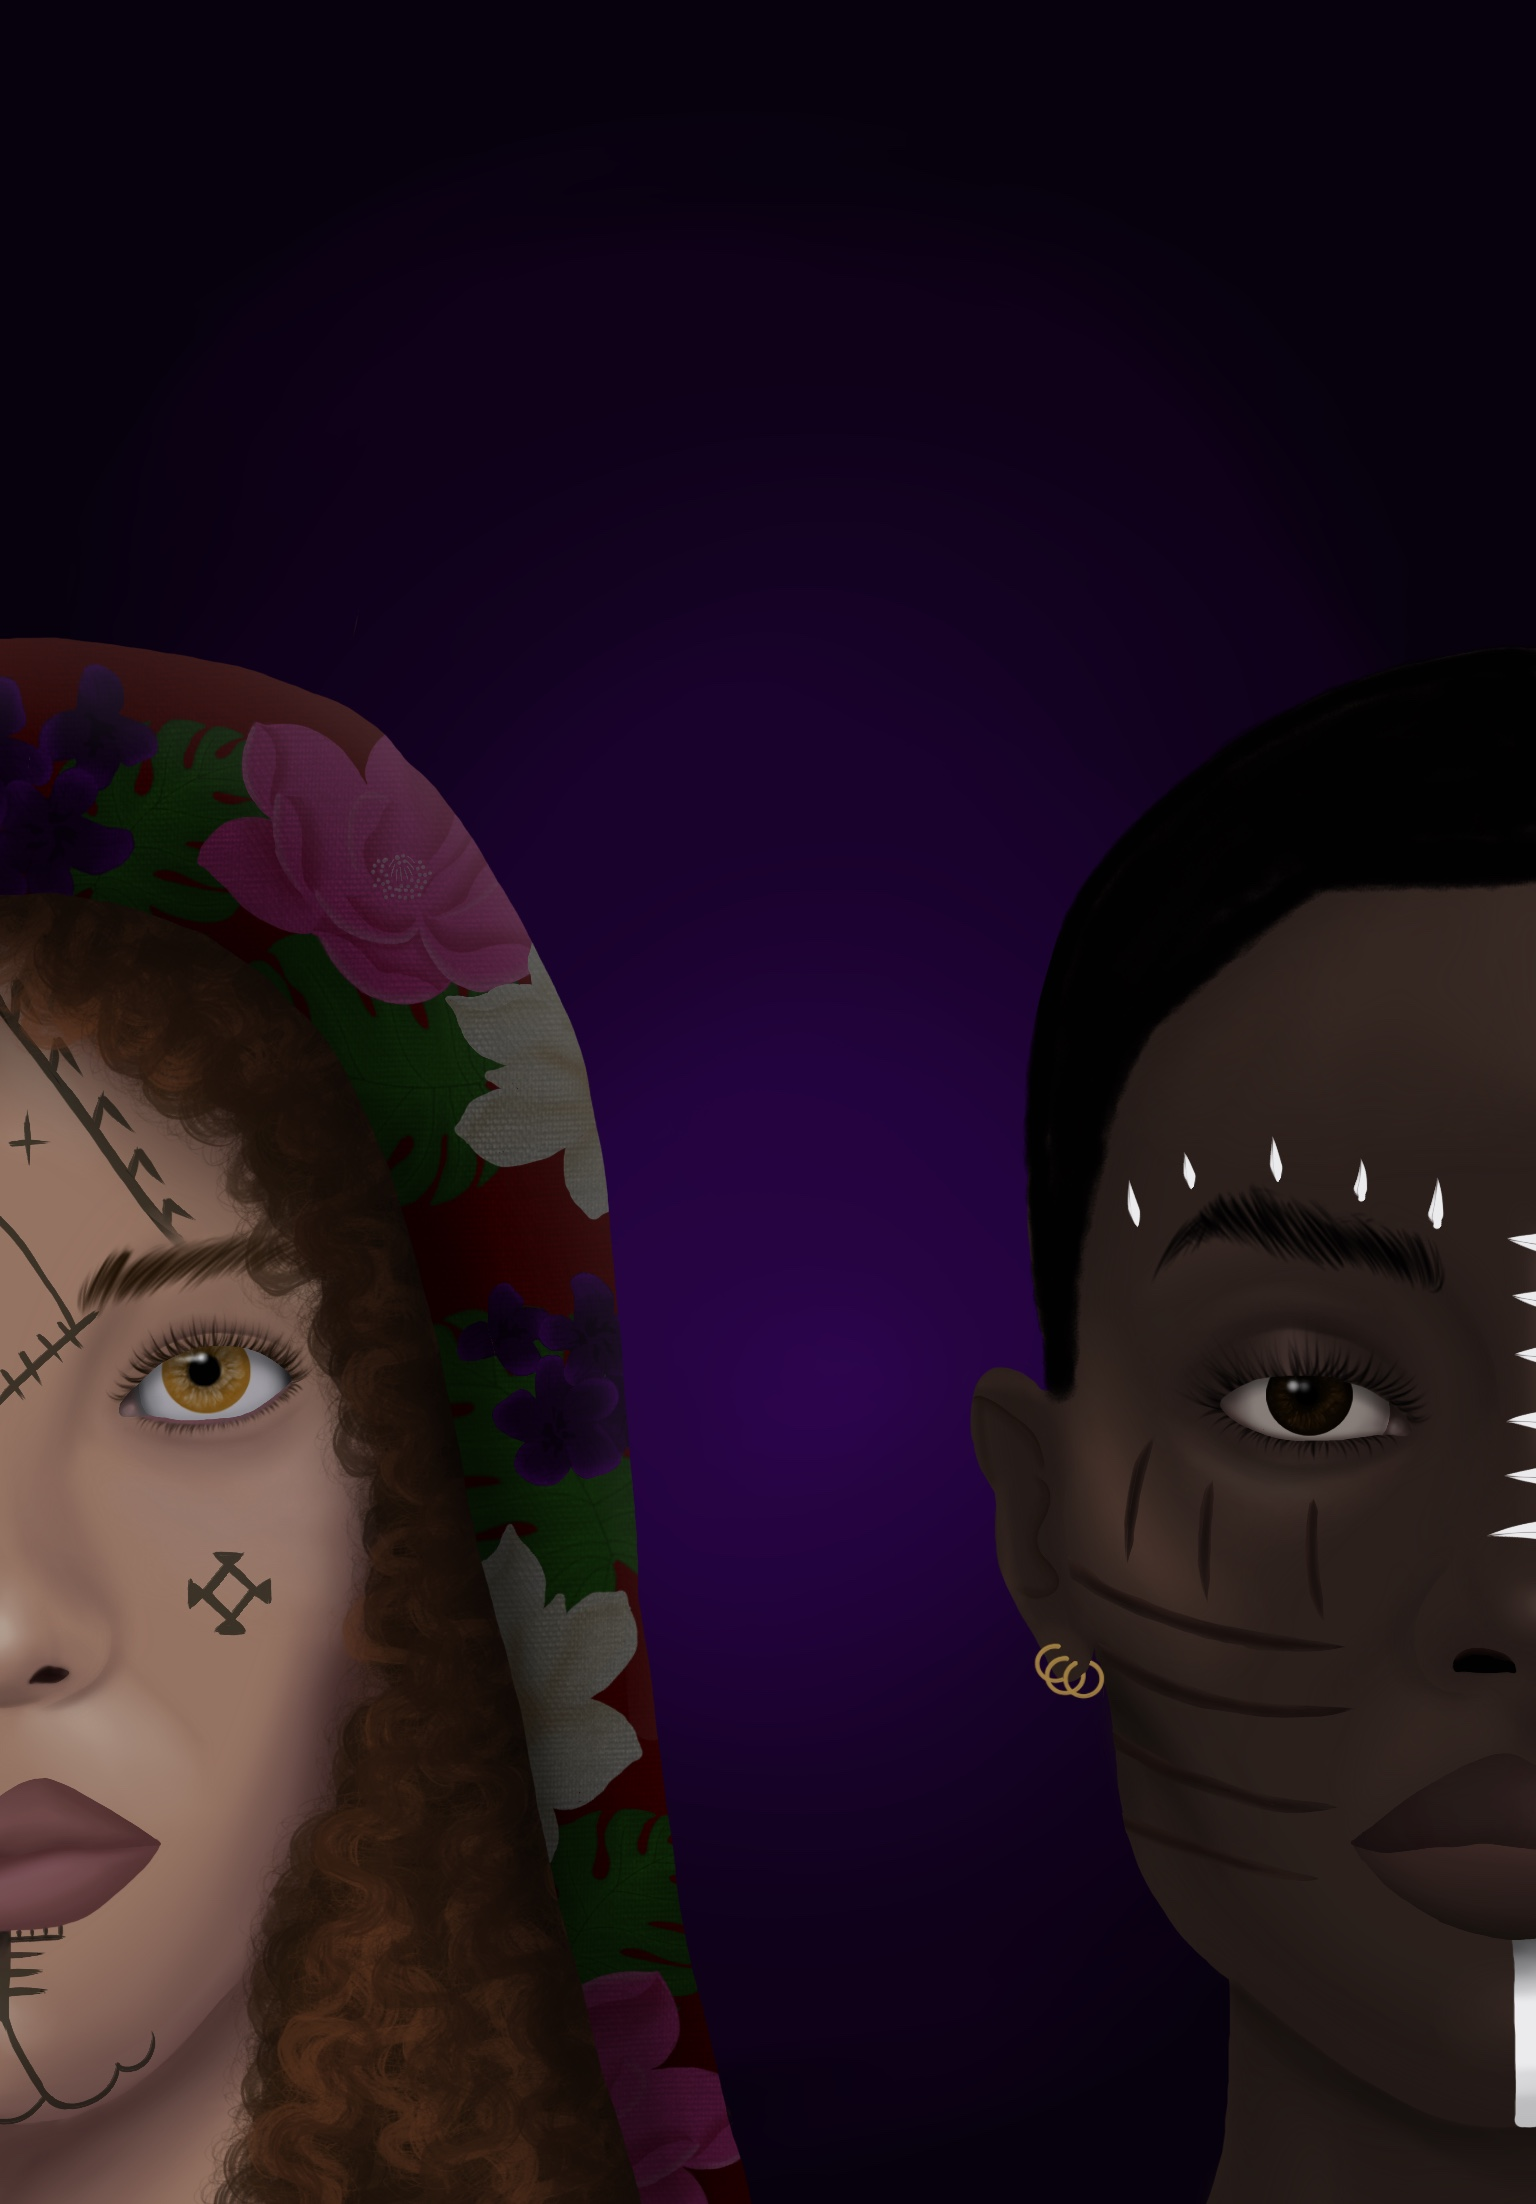
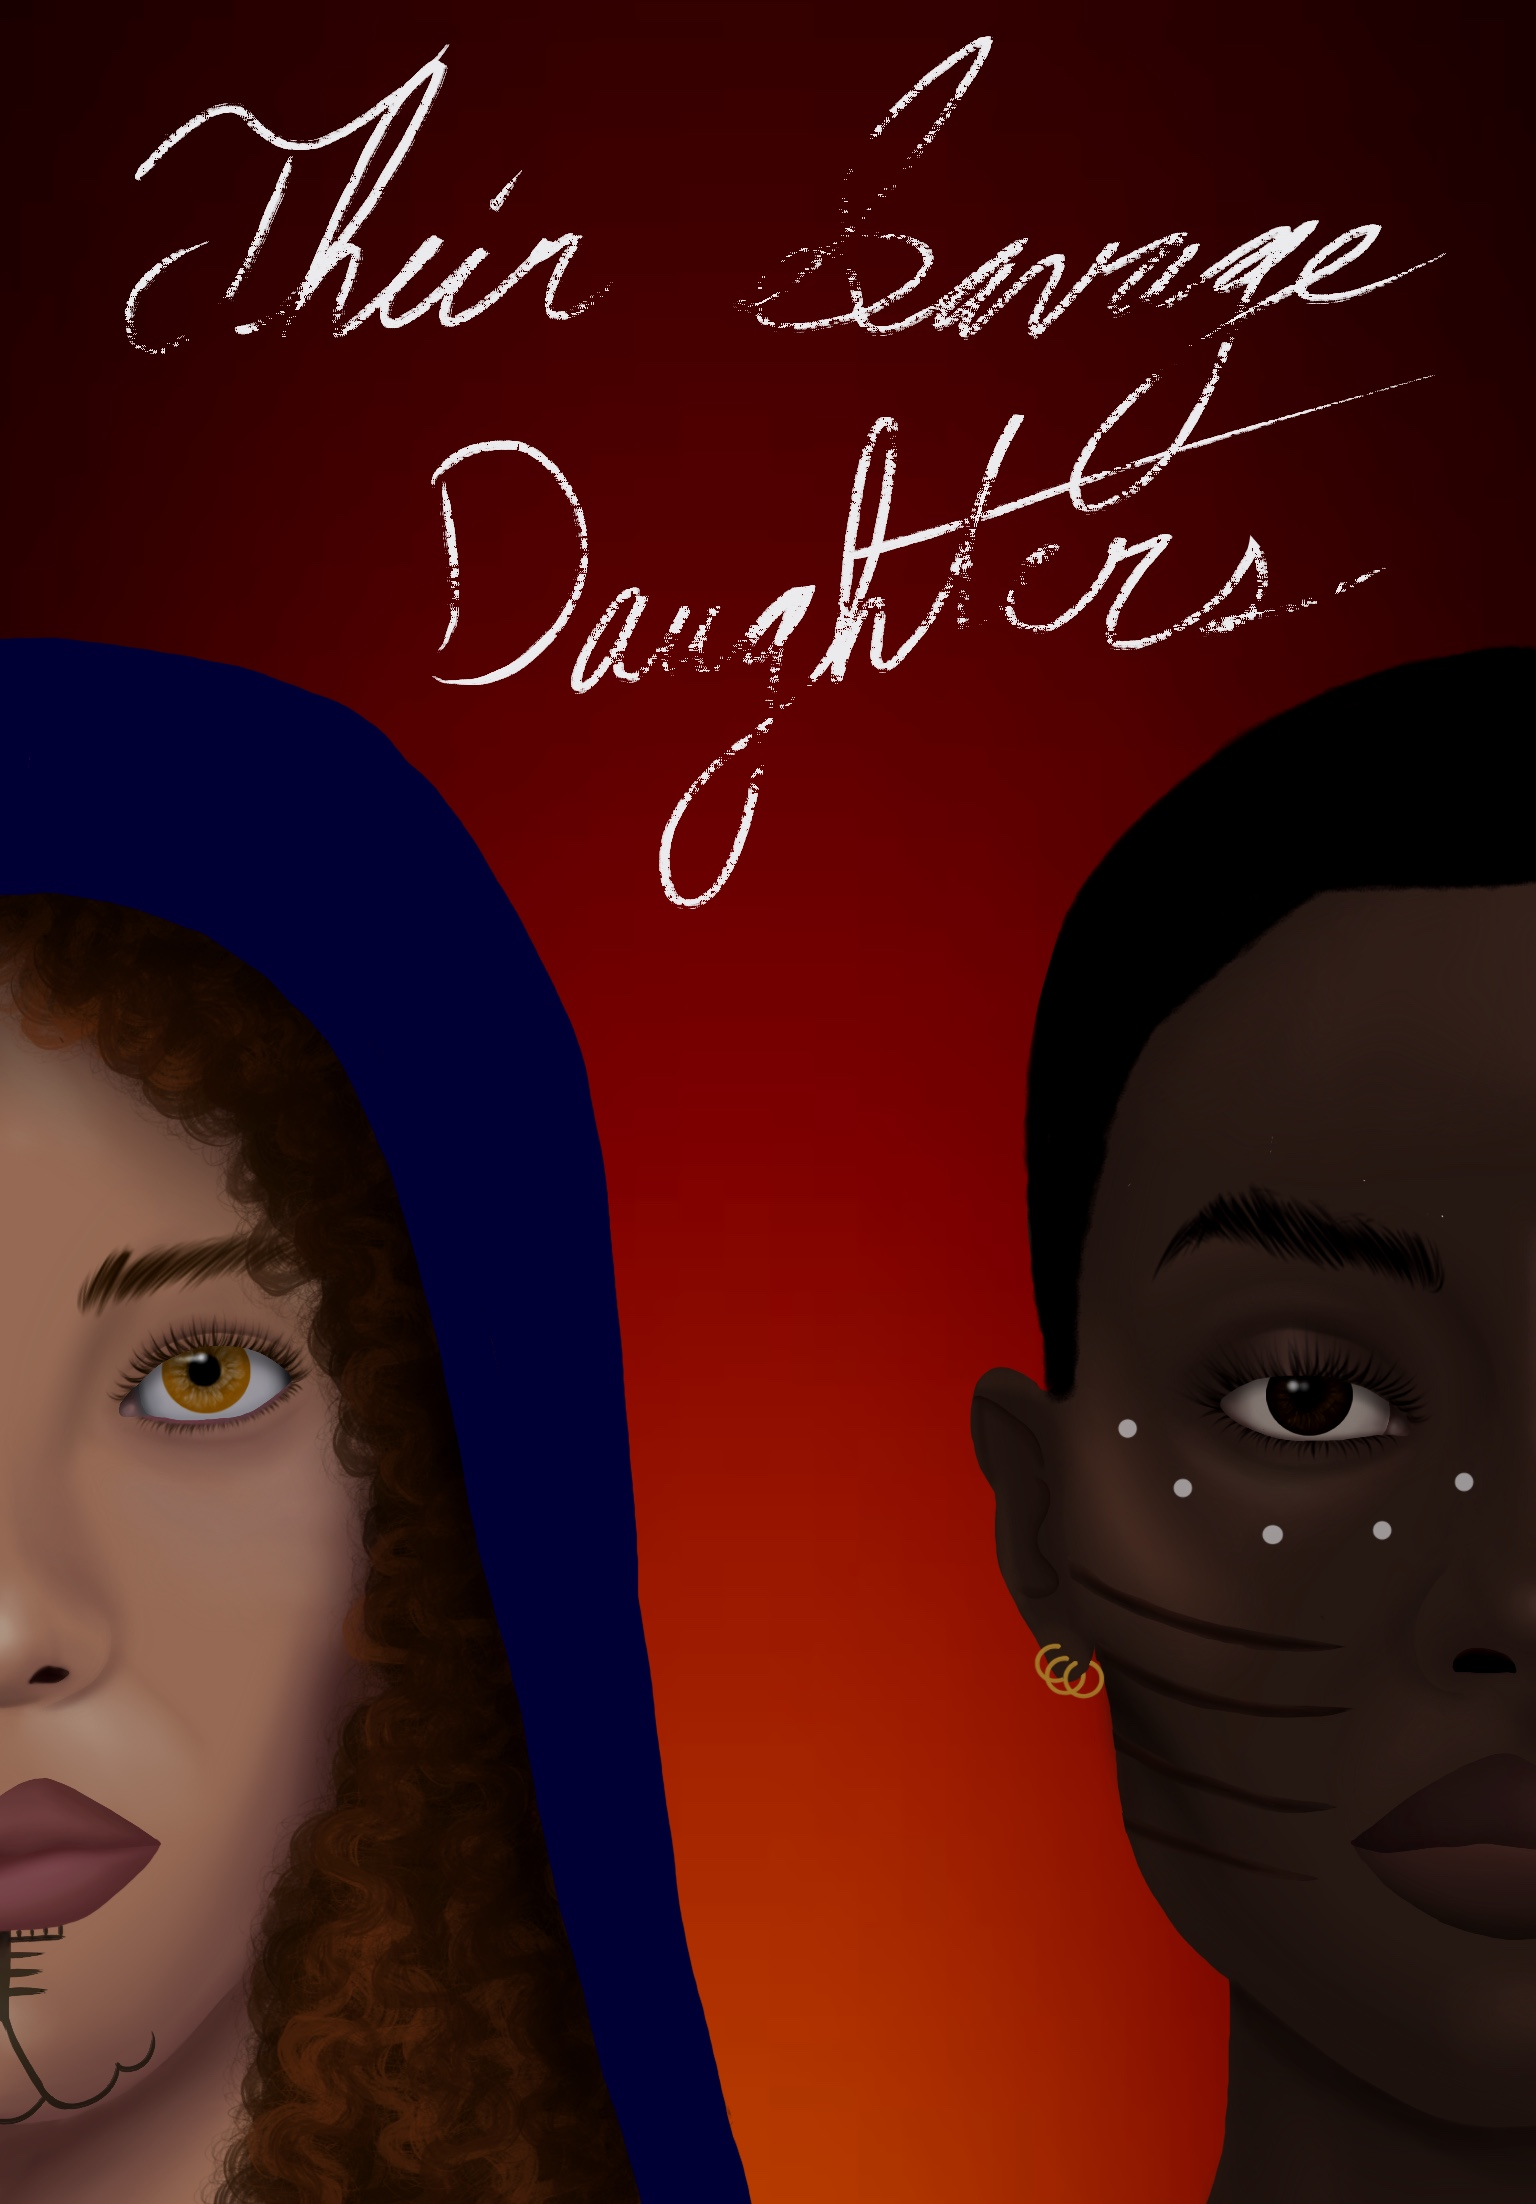
made design changes

diff --git a/src/pages/Home/index.jsx b/src/pages/Home/index.jsx
@@ -9,8 +9,9 @@ import Col from 'react-bootstrap/Col';
 import Carousel from 'react-bootstrap/Carousel';
 import Button from 'react-bootstrap/Button';
 
-import campfire from '../../../public/images/campfire.gif';
+
 import logo from '../../../public/images/logo.png';
+import tsd from '../../../public/images/tsd-cover.jpg';
 import './styles.css';
 
 function Home() {
@@ -36,39 +37,7 @@ function Home() {
             });
         });
 
-        // Firefly animation
-        // const w = window.innerWidth;
-        // const h = window.innerHeight;
-
-        // const Anim = (elm) => {
-        //     const containerRect = fireFliesContainerRef.current.getBoundingClientRect();
-        //     const containerWidth = containerRect.width;
-        //     const containerHeight = containerRect.height;
-
-        //     gsap.to(elm, {
-        //         duration: Math.random() * 10 + 10,
-        //         x: Math.random() * containerWidth,
-        //         y: Math.random() * containerHeight,
-        //         opacity: Math.random(),
-        //         scale: Math.random() * 0.5 + 1,
-        //         delay: Math.random() * 2,
-        //         onComplete: () => Anim(elm),
-        //     });
-        // };
-
-        // const fireFlies = fireFliesContainerRef.current.children;
-
-        // for (let i = 0; i < totalFireFlies; i++) {
-        //     const fireFly = fireFlies[i];
-        //     gsap.set(fireFly, { opacity: 0 });
-        //     Anim(fireFly);
-        // }
-
-        // return () => {
-        //     for (let i = 0; i < totalFireFlies; i++) {
-        //         gsap.killTweensOf(fireFlies[i]);
-        //     }
-        // };
+        
     }, []);
 
     const scrollToSection = (sectionId) => {
@@ -80,93 +49,24 @@ function Home() {
 
     return (
         <section className="home-page" style={{minWidth: "100vw"}}>
-           {/* <Container className="fireflies-container" ref={fireFliesContainerRef}>
-                {Array.from({ length: totalFireFlies }, (_, index) => (
-                    <div
-                        key={index}
-                        className="dot"
-                    />
-                ))}
-                <div id="intro">
-                    <div style={{position: "absolute"}}>
-                    <img src={logo} style={{width: "8%", marginBottom: "3%"}}/>
-                        <h1>NH Akbar</h1>
-                    </div>
-                    <div id="campfire"><img src={campfire}/></div>
-                    <div id="intro-poem">
-                            <p>If you are a dreamer, come in</p>
-                            <p>If you are a dreamer, a wisher, a liar,</p>
-                            <p>A hope-er, a pray-er, a magic bean buyer . . .</p>
-                            <p>If you're a pretender, come sit by the fire</p>
-                            <p>For we have some flax-golden tales to spin.</p>
-                            <p>Come in!</p>
-                            <p>Come in!</p>
-                            <br />
-                            <p style={{fontSize: "12px"}}>Shel Silverstein</p>
-                        </div>
+            <div style={{display: "flex", justifyContent: "center", paddingTop: "80px"}}>
+                <img src={logo} style={{width: "180px"}}/>
+            </div>
+            <Container className="home-container" id="works">
+                <div id="works-box">
+                    <Row>
+                        <Col><img src={tsd}/> </Col>
+                        <Col xs={6}>back cover blurd goes here!!!!!!!!!!!!!!!!!!</Col>
+                    </Row>
                 </div>
-            </Container> */}
+            </Container>
             <Container className="home-container" id="intro">
                 <h2 style={{ marginBottom: "8%", textAlign: "center", fontSize: "35px" }}>NH Akbara</h2>
-                {/* <Row>
-                    <Col id="left">
-                        <div id="book-cover">
-                            <h3>Their Savage Daughters</h3>
-                        </div>
-                    </Col>
-                    <Col xs={6} id="blurb">
-                        <p>Rana Nari has spent the majority of her life as a slave. Abducted from her homeland and forced into subjugation, the magic that lives within Rana is buried and diminished. But a single spark can start an inferno. An act of defiance escalates until Rana is a fugitive marked for death. Determined to survive, Rana has no intention of being captured ever again.</p>
-                        <br />
-                        <p>Oni Machawi was born of a magically powerful bloodline. Her magic is as rare as it is feared, and that fear often morphs into hatred meant to intimidate and subdue. But Oni has never been cowed by others. When a foreign prince offers her a proposition she cannot refuse, Oni accompanies him to the kingdom responsible for the malice her kind face. A tragedy upheaves the fragile order and reveals secrets thousands had been killed for. Poised to avenge those butchered, Oni vows to keep that number from growing by any means.</p>
-                        <br />
-                        <p>As atrocities mount and blood is shed, Rana and Oni become positioned to change the fate of their people. To do so, they must answer one question: is freedom worth the risk of total eradication?</p>
-                    </Col>
-                </Row> */}
+               
                 <div id="bio">
                     <p>N.H. Akbara hoards stories like a dragon hoards its treasure — fiercely, obsessively, and with no intention of ever letting go. A lifelong devotee of the strange and unusual, she earned a BA in English Literature from Bloomsburg University and an MFA in Popular Fiction Writing and Publishing from Emerson College in an attempt to give her obsession with dark stories a respectable-sounding pedigree — because apparently, "professional storyteller of the weird and supernatural" was not a real job.</p>
                 </div>
             </Container>
-            {/* <Container className="home-container" id="poetry" style={{minWidth: "100vw"}}>
-                    <h2 style={{textAlign: "center", fontSize: "35px", padding:"3%", marginTop: "15%"}}>Poetry</h2>
-                    <Carousel>
-                        <Carousel.Item>
-                            <Carousel.Caption>
-                            <h3>In the place where we hide our dreams</h3>
-                            <Button variant="primary"><NavLink to='/poetry#1' onClick={() => scrollToSection('1')}>Read</NavLink></Button>
-                            </Carousel.Caption>
-                        </Carousel.Item>
-                        <Carousel.Item>
-                            <Carousel.Caption>
-                                <h3>My goddess is of many faces</h3>
-                                <Button variant="primary"><NavLink to='/poetry#2' onClick={() => scrollToSection('1')}>Read</NavLink></Button>
-                            </Carousel.Caption>
-                        </Carousel.Item>
-                        <Carousel.Item>
-                            <Carousel.Caption>
-                                <h3>My home is one made of glass</h3>
-                                <Button variant="primary"><NavLink to='/poetry#3' onClick={() => scrollToSection('1')}>Read</NavLink></Button>
-                            </Carousel.Caption>
-                        </Carousel.Item>
-                        <Carousel.Item>
-                            <Carousel.Caption>
-                                <h3>For her</h3>
-                                <Button variant="primary"><NavLink to='/poetry#4' onClick={() => scrollToSection('1')}>Read</NavLink></Button>
-                            </Carousel.Caption>
-                        </Carousel.Item>
-                        <Carousel.Item>
-                            <Carousel.Caption>
-                                <h3>Baby girl with the beautiful mind</h3>
-                                <Button variant="primary"><NavLink to='/poetry#5' onClick={() => scrollToSection('1')}>Read</NavLink></Button>
-                            </Carousel.Caption>
-                        </Carousel.Item>
-                        <Carousel.Item>
-                            <Carousel.Caption>
-                                <h3>Baby boy with the tender arms</h3>
-                                <Button variant="primary"><NavLink to='/poetry#6' onClick={() => scrollToSection('1')}>Read</NavLink></Button>
-                            </Carousel.Caption>
-                        </Carousel.Item>
-                    </Carousel>
-                </Container> */}
         </section>
     )
 }

diff --git a/src/pages/Home/styles.css b/src/pages/Home/styles.css
@@ -30,98 +30,28 @@ h1 {
     padding: 0%;
 }
 
-.carousel {
-    width: 70%;
-    height: 800px;
-}
-
-.carousel-item {
-    width: 100%;
-    height: 500px;
-    background-color: rgba(0, 0, 0, 0.152);
-}
-
-.carousel-caption {
-    text-align: center;
-}
-
-.carousel-caption h3 {
-    font-size: 25px;
-}
-
-.carousel-caption button {
-    border: none;
-    background-color: rgb(214, 0, 86);
-    padding: 4% 9%;
-    margin-top: 12%;
-    margin-bottom: 10%;
-    font-size: 20px;
-}
-
-.carousel-caption button:hover, .carousel-caption button:active, .carousel-caption button:focus {
-    border: none;
-    background-color: rgb(162, 1, 65) !important;
-    padding: 4% 9%;
-    font-size: 20px;
-}
-
-.carousel-indicators {
-    display: none;
-}
-
-.carousel-control-prev, .carousel-control-next {
-    height: 500px;
-}
-
 
 #intro {
-    background-color: rgb(42 10, 17);
     padding: 2%;
     min-width: 100vw;
     min-height: 100vh;
     color: white;
 }
 
-#bio {
+#works {
     width: 80%;
-    line-height: 1.6;
-    font-size: 18px;
+    padding-top: 50px;
 }
 
-#book-cover {
-    width: 400px;
-    height: 515px;
-    padding: 0%;
-    margin: 0%;
-    background-image: url("../../../public/images/tsd-cover.jpg");
-    background-repeat: no-repeat;
-    background-size: 100% 100%;
+#works-box {
+    border: 2px solid green;
+    width: 80%;
 }
 
-#book-cover h3 {
-    font-family: "Almendra", serif;
-    font-weight: 700;
-    font-style: normal;
-    text-align: center;
-    font-size: 30px;
-    color: white;
-    margin-top: 8%;
+#works-box img {
+    width: 70%;
 }
 
-#blurb {
-    width: 50%;
-    line-height: 1.6;
-}
-
-#poetry {
-    display: flex;
-    flex-direction: column;
-    align-items: center;
-    justify-content: center;
-    background-image: url("../../../public/images/poetry.png");
-    background-repeat: no-repeat;
-    background-size: 100% 100%;
-}
 
 @media screen and (max-width: 1024px) {
     #intro-poem {

diff --git a/src/components/Footer/index.jsx b/src/components/Footer/index.jsx
@@ -3,7 +3,7 @@ import footerLogo from '../../../public/images/footer-logo.png';
 function Footer() {
     return(
         <section>
-            <div style={{backgroundColor: "rgb(42, 4, 52)", height: "50px", textAlign: "center", padding: "1%", display: "flex", flexDirection: "row", flexWrap: "wrap", justifyContent: "center"}}>
+            <div style={{backgroundColor: "rgb(35, 17, 29)", height: "50px", textAlign: "center", padding: "1%", display: "flex", flexDirection: "row", flexWrap: "wrap", justifyContent: "center"}}>
                 <p style={{color: "white"}}>Designed and developed by <a href="https://ashleycreates.org/" target="_blank">ashleycreates.org</a></p>
                 <img src={footerLogo} style={{width: "35px", height:"15px", marginLeft: "10px"}}/>
             </div>

diff --git a/index.html b/index.html
@@ -6,9 +6,9 @@
     <meta name="viewport" content="width=device-width, initial-scale=1.0" />
     <link href="https://fonts.googleapis.com/css2?family=Cedarville+Cursive&display=swap" rel="stylesheet">
     <link href="https://fonts.googleapis.com/css2?family=Almendra:ital,wght@0,400;0,700;1,400;1,700&display=swap" rel="stylesheet">
-    <title>NH Akbar</title>
+    <title>NH Akbara</title>
   </head>
-  <body style="background-color: black;">
+  <body style="background-color: rgb(70, 6, 37)">
     <div id="root"></div>
     <script type="module" src="/src/main.jsx"></script>
   </body>

diff --git a/src/components/Navigation/index.jsx b/src/components/Navigation/index.jsx
@@ -4,7 +4,7 @@ import { NavLink } from 'react-router-dom';
 
 function Navigation({ routes }) {
   return (
-    <Navbar style={{backgroundColor: "rgb(67, 14, 24)"}}>
+    <Navbar style={{backgroundColor: "rgb(35, 17, 29)"}}>
       <Nav className="mx-auto">
         {routes.map((route) => (
           <Nav.Link style={{color: "white"}}
